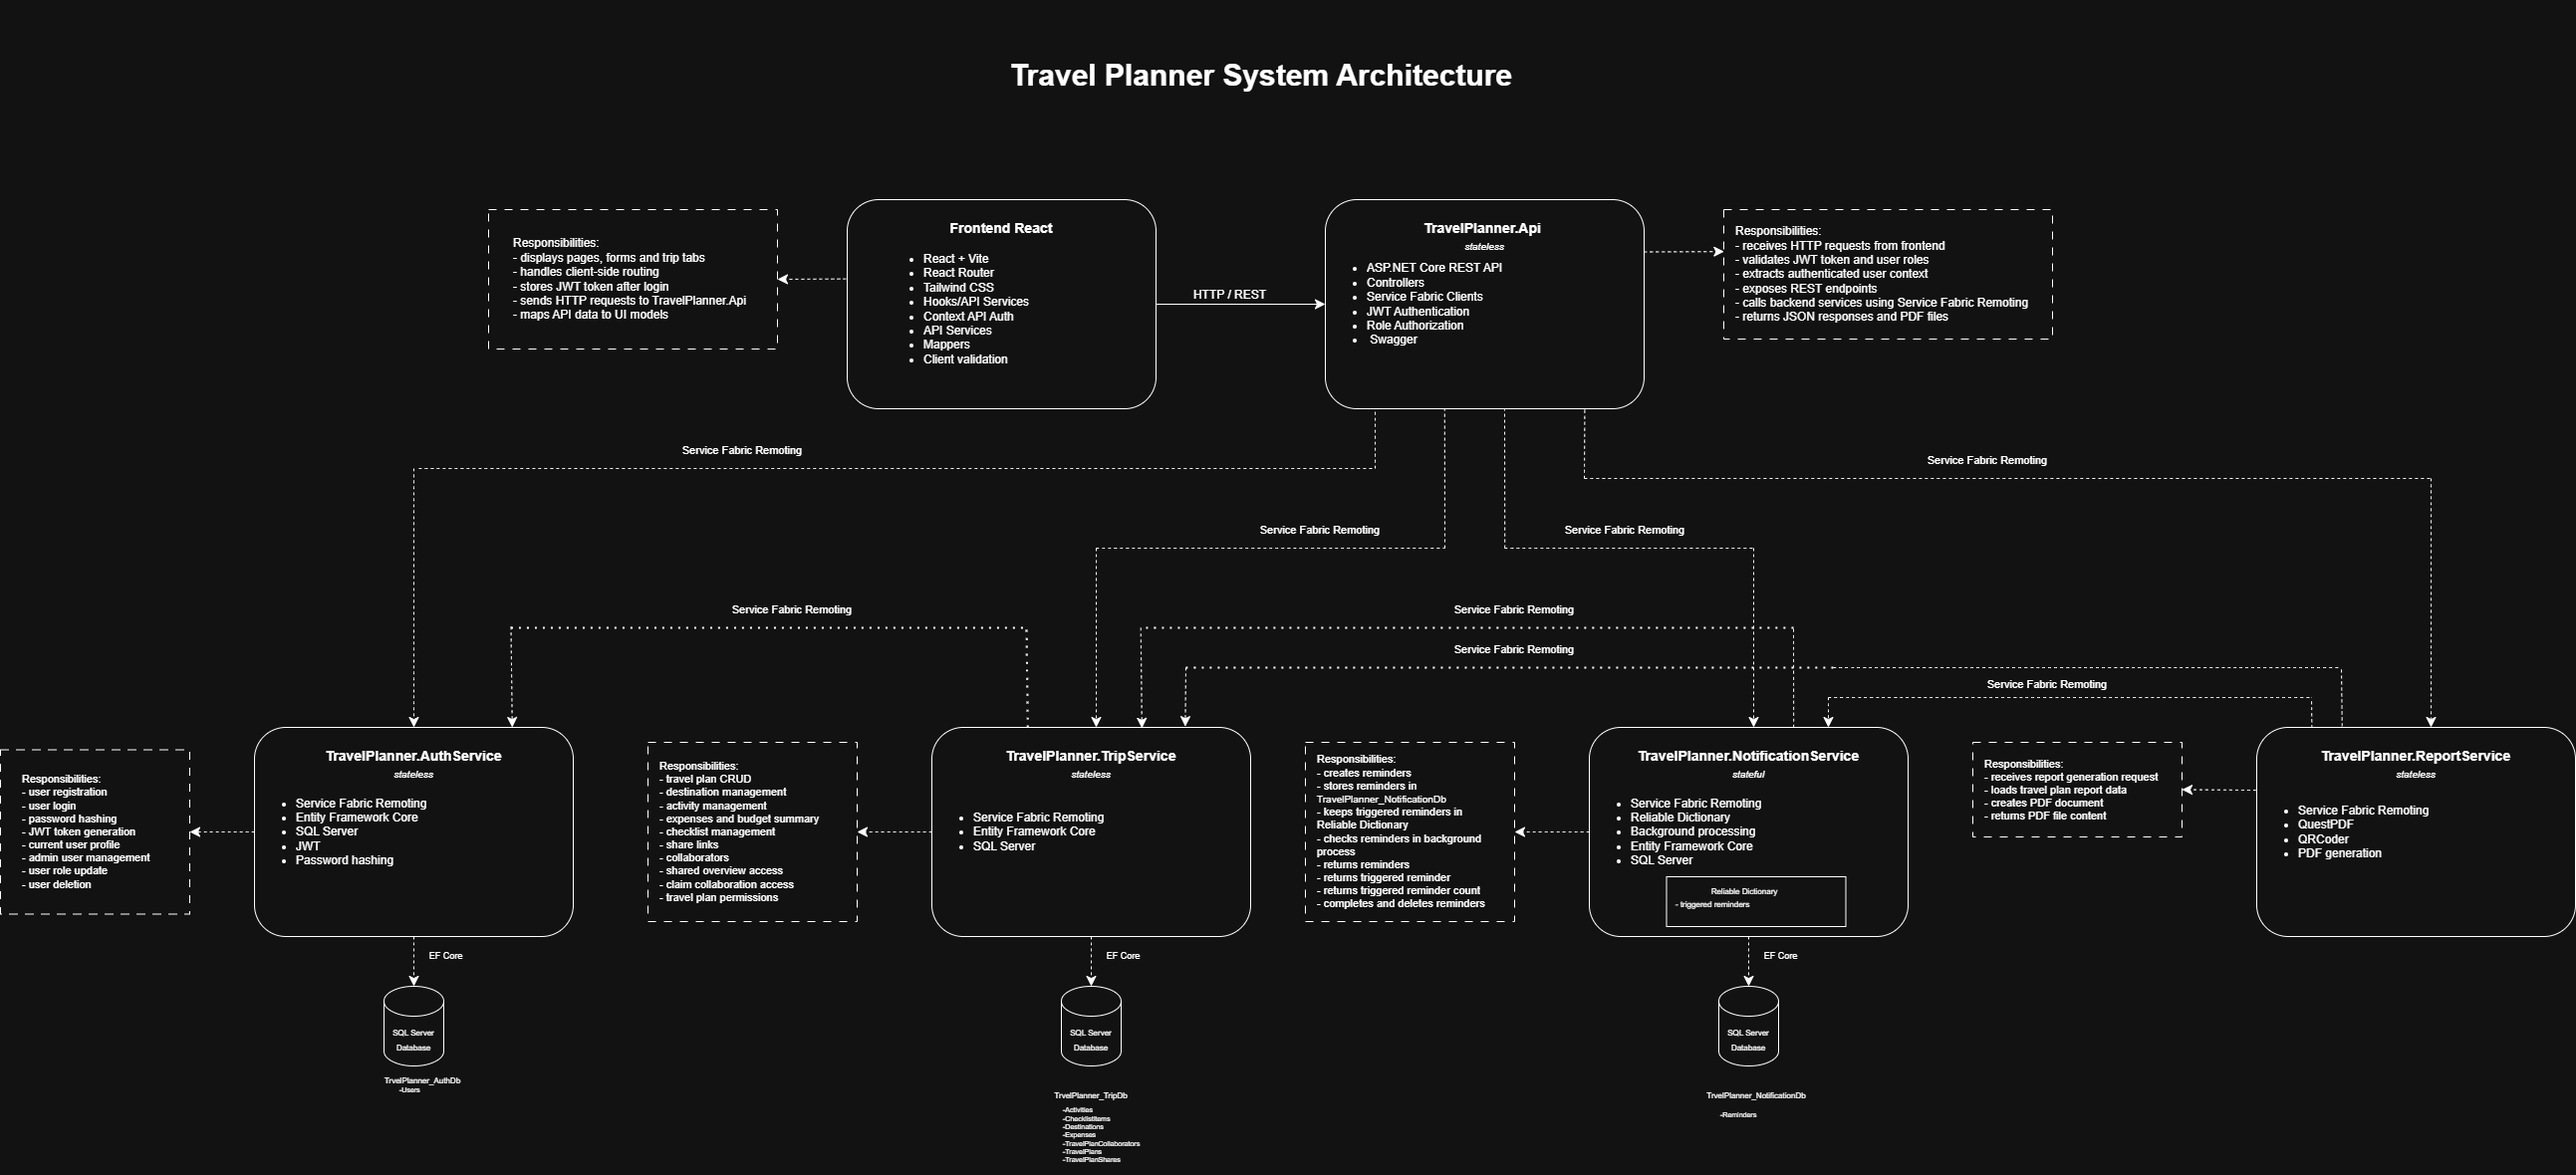
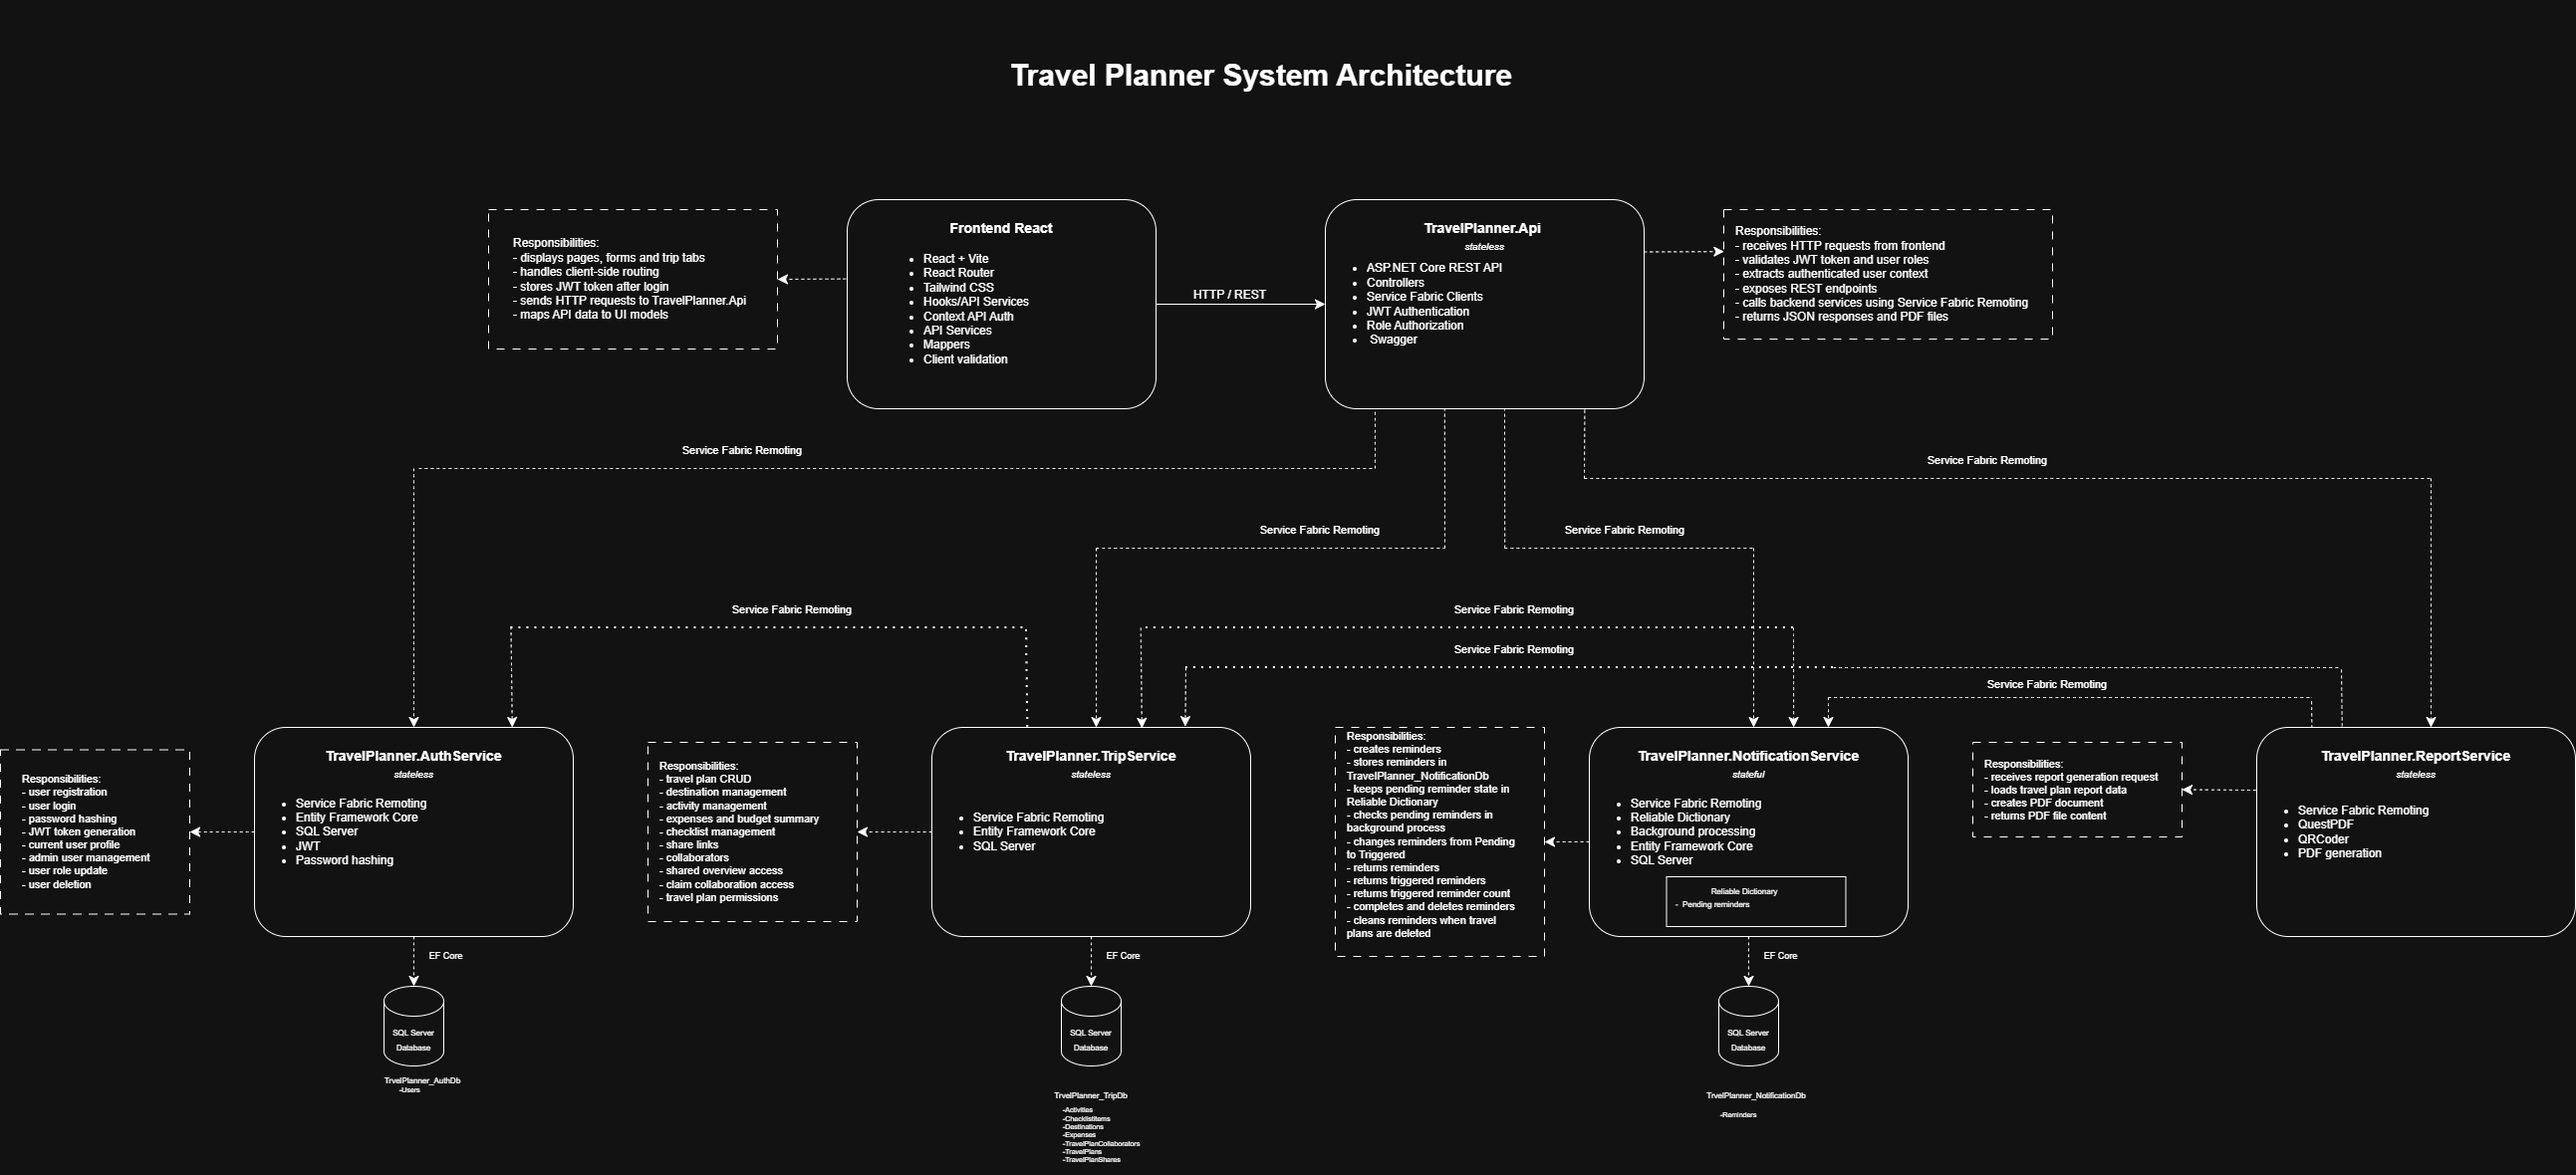
docs: update README and architecture diagram

Changed region(s): [[0.495, 0.6102, 0.5878, 0.8237]]

diff --git a/README.md b/README.md
@@ -366,10 +366,10 @@ Backend services are separated by responsibility:
 
 - `AuthService` handles authentication and user management
 - `TripService` handles the main travel planning logic
-- `NotificationService` handles reminders and triggered reminder state
+- `NotificationService` handles reminders, pending reminder state and background reminder processing
 - `ReportService` generates PDF reports
 
-The system uses separate SQL Server databases for authentication, travel planning and notifications.
+The system uses separate SQL Server Express databases for authentication, travel planning and notifications.
 
 ### Architecture Diagram
 
@@ -489,10 +489,12 @@ Responsibilities:
 
 - create reminders
 - store reminders in `NotificationDb`
-- check reminders in background process
-- keep triggered reminders in Reliable Dictionary
+- keep pending reminders in Reliable Dictionary
+- check pending reminders in background process
+- change reminder status from `Pending` to `Triggered` when reminder time is reached
 - return triggered reminder count
 - complete and delete reminders
+- clean reminder data when a travel plan is deleted
 
 Database:
 
@@ -500,7 +502,7 @@ Database:
 
 Stateful storage:
 
-- Reliable Dictionary for triggered reminders
+- Reliable Dictionary for pending reminder state
 
 ---
 
@@ -559,6 +561,7 @@ Internal Service Fabric Remoting calls:
 TravelPlanner.NotificationService -> ITripService -> TravelPlanner.TripService
 
 TravelPlanner.TripService -> IAuthService -> TravelPlanner.AuthService
+TravelPlanner.TripService -> INotificationService -> TravelPlanner.NotificationService
 
 TravelPlanner.ReportService -> ITripService -> TravelPlanner.TripService
 TravelPlanner.ReportService -> INotificationService -> TravelPlanner.NotificationService
@@ -570,13 +573,15 @@ TravelPlanner.ReportService -> INotificationService -> TravelPlanner.Notificatio
 
 `TripService` calls `AuthService` when working with collaborators. Collaborator records store user ids, while user profile data is owned by `AuthService`, so `TripService` requests user data when it needs to display collaborator information.
 
+`TripService` calls `NotificationService` when deleting a travel plan, so all reminders connected to that travel plan are removed from `NotificationDb`, and any pending reminder state is removed from the Reliable Dictionary.
+
 `ReportService` calls `TripService` and `NotificationService` when generating a PDF report. It collects travel plan data, destinations, activities, expenses, budget summary, checklist items, share links and reminders, and then generates the PDF file.
 
 This keeps each service focused on its own responsibility:
 
 - `AuthService` owns user and authentication data
-- `TripService` owns travel plan data and collaboration data
-- `NotificationService` owns reminder data and triggered reminder state
+- `TripService` owns travel plan data, collaboration data and travel plan deletion flow
+- `NotificationService` owns reminder data, pending reminder state, background reminder processing and reminder cleanup logic
 - `ReportService` generates PDF reports using data collected from other services
 
 ---
@@ -681,6 +686,10 @@ Reminder statuses:
 - Pending
 - Triggered
 - Completed
+
+Pending reminders are stored in the Reliable Dictionary until their reminder time is reached.
+
+When the reminder time is reached, the background process changes the reminder status from `Pending` to `Triggered`.
 
 Triggered reminders are shown to the user and counted in the sidebar badge.
 
